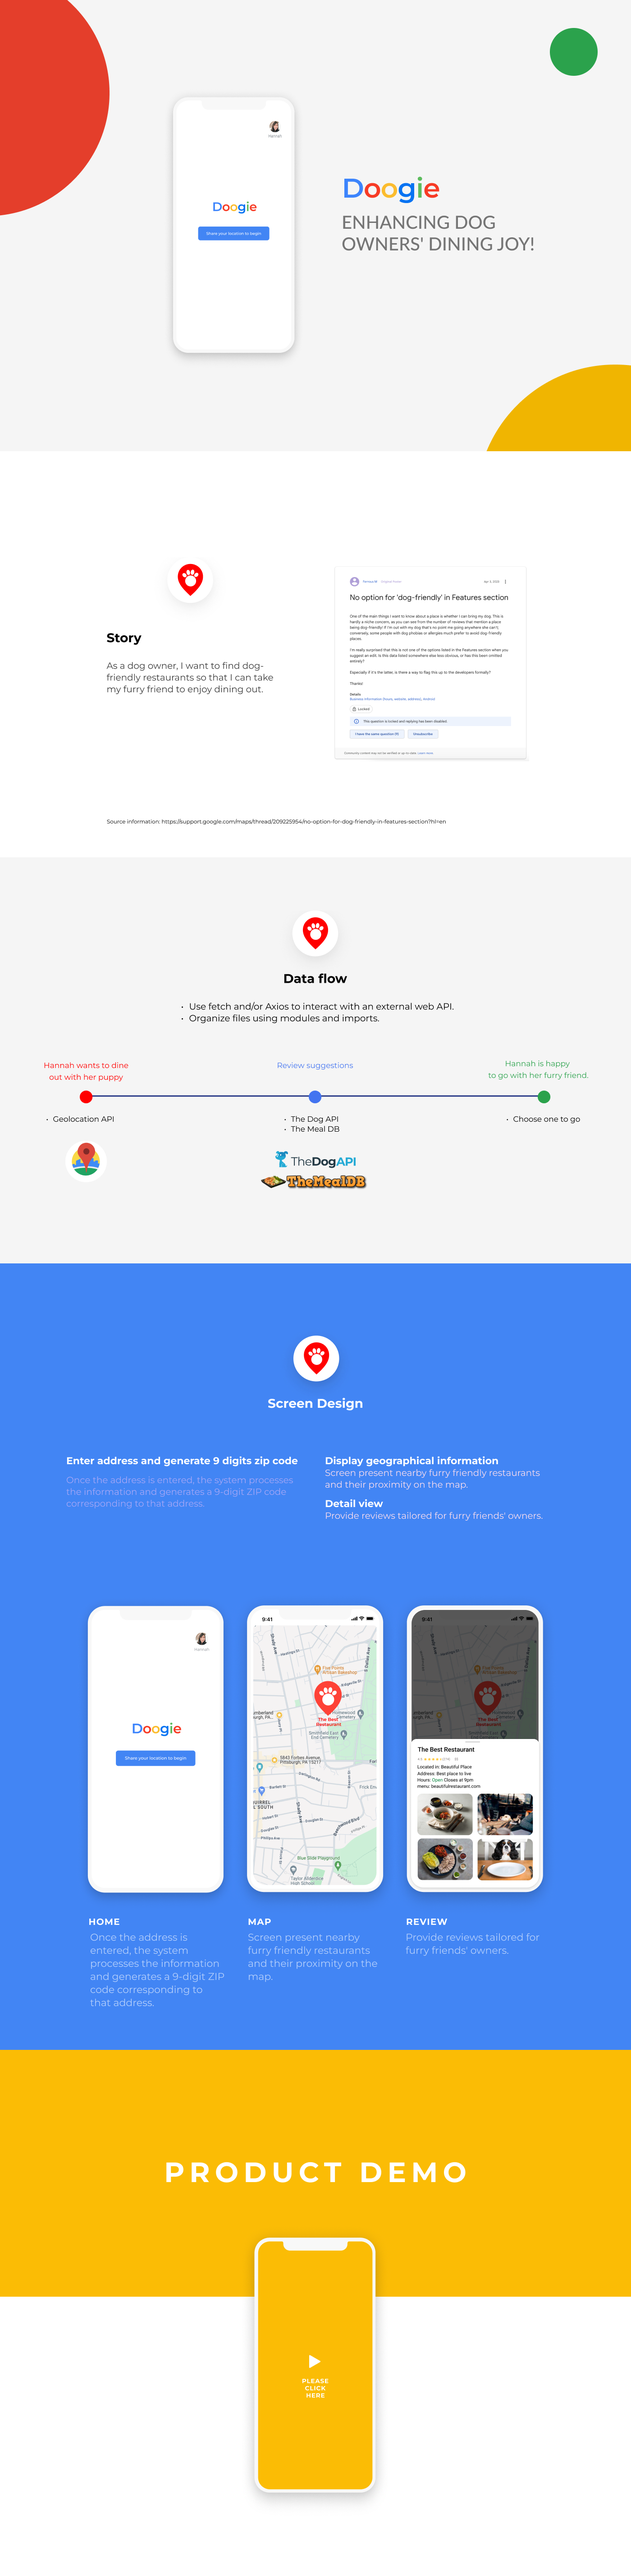
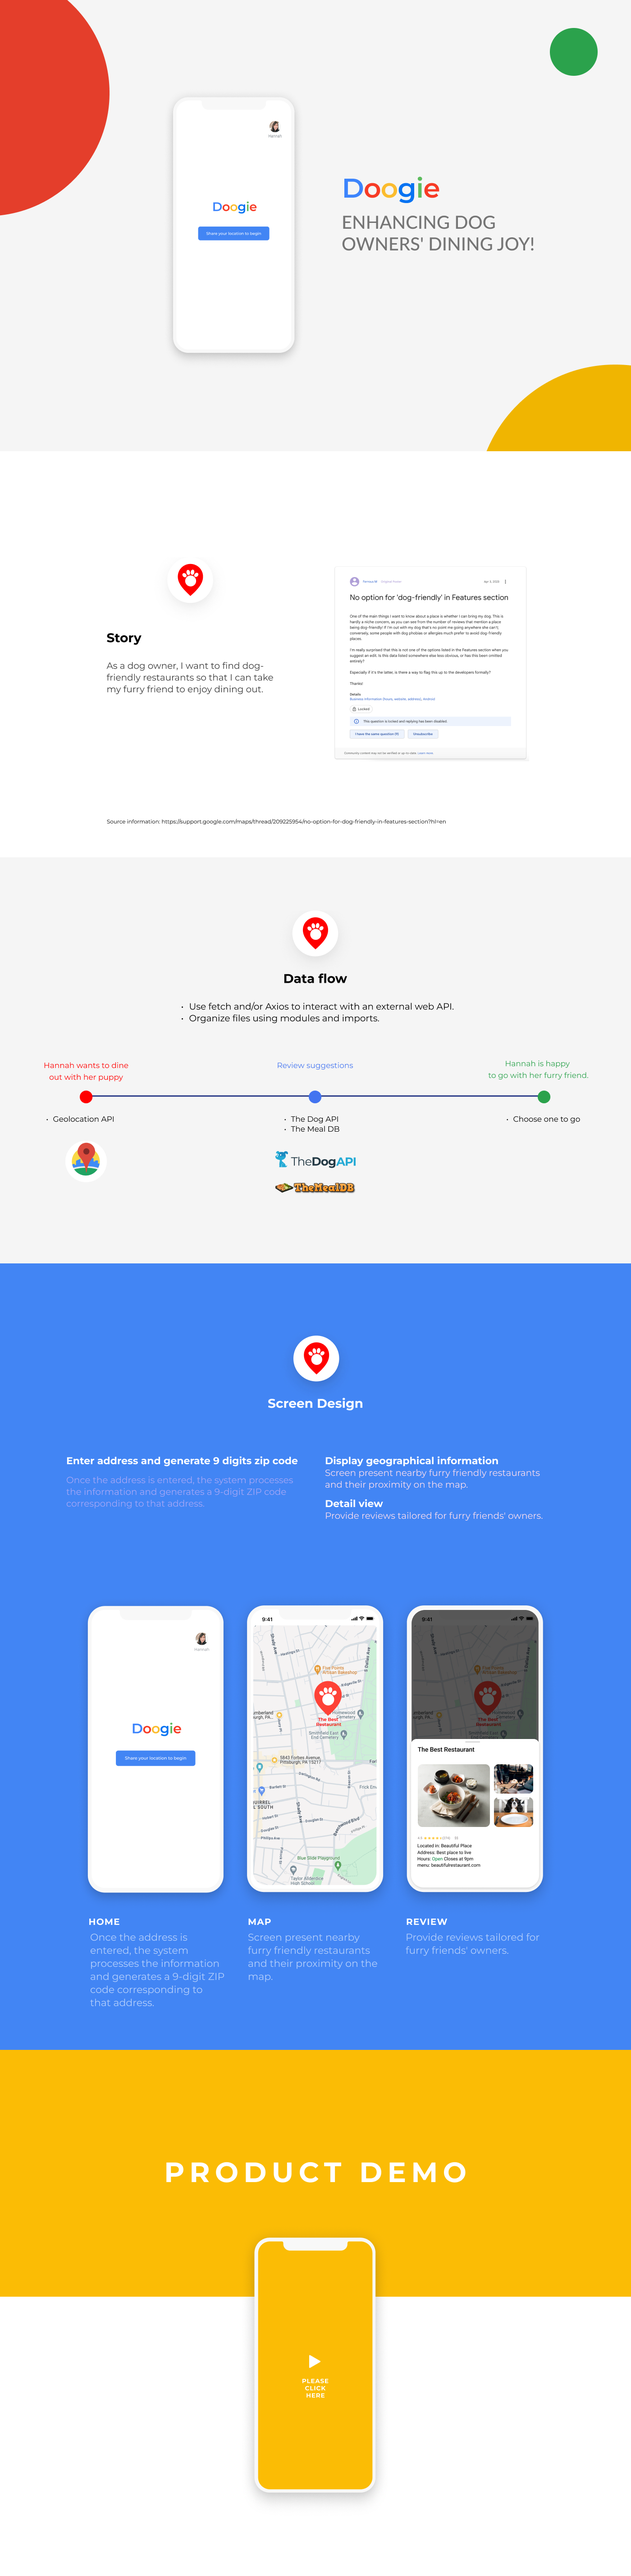
pushing working code

Changed region(s): [[0.645, 0.6859, 0.86, 0.7483], [0.43, 0.4365, 0.5836, 0.4677]]

diff --git a/googleMap.js b/googleMap.js
@@ -34,6 +34,15 @@ export async function initMap() {
     });
   });
 
+  // As of February 21st, 2024, google.maps.Marker is deprecated. Please use google.maps.marker.AdvancedMarkerElement instead. At this time, google.maps.Marker is not scheduled to be discontinued, but google.maps.marker.AdvancedMarkerElement is recommended over google.maps.Marker. While google.maps.Marker will continue to receive bug fixes for any major regressions, existing bugs in google.maps.Marker will not be addressed. At least 12 months notice will be given before support is discontinued. Please see https://developers.google.com/maps/deprecations for additional details and https://developers.google.com/maps/documentation/javascript/advanced-markers/migration for the migration guide."));
+
+  // restaurants.forEach(({ label, name, lat, lng }) => {
+  //   const marker = new google.maps.marker.AdvancedMarkerElement({
+  //     position: { lat, lng },
+  //     label,
+  //     map,
+  //   });
+  // });
 
   ////////////////// Try more land marks //////////////  
 
@@ -57,71 +66,3 @@ export async function initMap() {
 }
 
 initMap();
-
-
-
-// --------------- { TRY WITH NEW WITH MANY MARKS}
-
-// The following example creates a marker in Stockholm, Sweden using a DROP
-// animation. Clicking on the marker will toggle the animation between a BOUNCE
-// animation and no animation.
-// let marker;
-
-// let map;
-
-// function initMap() {
-//   const map = new google.maps.Map(document.getElementById("map"), {
-//     zoom: 13,
-//     center: { lat: 59.325, lng: 18.07 },
-//   });
-
-//   marker = new google.maps.Marker({
-//     map,
-//     draggable: true,
-//     animation: google.maps.Animation.DROP,
-//     position: { lat: 59.327, lng: 18.067 },
-//   });
-//   marker.addListener("click", toggleBounce);
-// }
-
-// function toggleBounce() {
-//   if (marker.getAnimation() !== null) {
-//     marker.setAnimation(null);
-//   } else {
-//     marker.setAnimation(google.maps.Animation.BOUNCE);
-//   }
-// }
-
-// window.initMap = initMap;
-
-// --------------- { TRY WITH Dale Seo's way}
-
-// window.initMap = function () {
-//   const map = new google.maps.Map(document.getElementById("map"), {
-//     center: { lat: 37.5400456, lng: 126.9921017 },
-//     zoom: 10,
-//   });
-
-//   const malls = [
-//     { label: "C", name: "코엑스몰", lat: 37.5115557, lng: 127.0595261 },
-//     { label: "G", name: "고투몰", lat: 37.5062379, lng: 127.0050378 },
-//     { label: "D", name: "동대문시장", lat: 37.566596, lng: 127.007702 },
-//     { label: "I", name: "IFC몰", lat: 37.5251644, lng: 126.9255491 },
-//     { label: "L", name: "롯데월드타워몰", lat: 37.5125585, lng: 127.1025353 },
-//     { label: "M", name: "명동지하상가", lat: 37.563692, lng: 126.9822107 },
-//     { label: "T", name: "타임스퀘어", lat: 37.5173108, lng: 126.9033793 },
-//   ];
-
-//   const bounds = new google.maps.LatLngBounds();
-
-//   malls.forEach(({ label, name, lat, lng }) => {
-//     const marker = new google.maps.Marker({
-//       position: { lat, lng },
-//       label,
-//       map,
-//     });
-//     bounds.extend(marker.position);
-//   });
-
-//   map.fitBounds(bounds);
-// };

diff --git a/index.js b/index.js
@@ -25,15 +25,9 @@
 const seeMoreBtn = document.getElementById('seeMoreBtn');
 
 // Add event listener to the button
-seeMoreBtn.addEventListener('click', async function() {
-    try {
+seeMoreBtn.addEventListener('click', function() {
     callDoggie();
     changeFood();
-    // await retrieveDishNames();
-
-} catch (error) {
-    alert("Oops! Something went wrong! It is on us! Please try again later.");
-}
 });
 
 async function callDoggie() {
@@ -70,49 +64,4 @@ async function changeFood() {
 
 
 // --------------- { Name of dishes } -------------- // 
-async function retrieveDishNames() {
-    const titleElement = document.querySelector(".nameOfDishes");
-    const input = /* Assuming you have input field */;
-    const val = input.value.trim();
-
-    if (!val) {
-        alert("Please enter a valid search term!");
-        return;
-    }
-
-    try {
-        const meals = await fetchMealData(val);
-
-        if (!meals) {
-            showAlert();
-            return;
-        }
-
-        // Clear previous results
-        titleElement.innerHTML = '';
-
-        // Show meal names
-        meals.forEach(meal => {
-            const { strMeal } = meal;
-            const mealTitle = document.createElement('p');
-            mealTitle.textContent = strMeal;
-            titleElement.appendChild(mealTitle);
-        });
-    } catch (error) {
-        alert("Oops! Something went wrong while retrieving dish names!");
-    }
-}
-
-async function fetchMealData(val) {
-    const res = await fetch(
-        `https://www.themealdb.com/api/json/v1/1/search.php?s=${val}`
-    );
-
-    const { meals } = await res.json();
-    return meals;
-}
-
-function showAlert() {
-    alert("Meal not found :(");
-}
 

diff --git a/index.html b/index.html
@@ -36,7 +36,7 @@
         <div class="modal-dialog" role="document">
         <div class="modal-content">
             <div class="modal-header">
-                <h4 class="modal-title" id="restaurantModal">The Best Dog Friendly Restaurant</h4>
+                <h5 class="modal-title" id="restaurantModal">The Best Dog Friendly Restaurant</h5>
                 <!-- <button type="button" class="close" data-dismiss="modal" aria-label="Close">
                     <span aria-hidden="true">&times;</span>
                 </button> -->
@@ -54,11 +54,11 @@
 
                 <!-- Fake business information --> 
                 <div class="modal-body">
-                    <h5 class="nameOfDishes">Name of Dish</h5>
+                    
                     <br><p> <b>Located in:</b> Beautiful Place<br>
                     <b>Address:</b> Best place to live<br>
                     <b>Hours:</b> <span style="color: green;">Open</span> Closes at 9pm<br>
-                    <b>Menu:</b><link rel="theporch" herf="https://www.dineattheporch.com/schenley/menu"> thebestdogfriendlyrestaurant.com</p>
+                    <b>Menu:</b><link rel="theporch" herf="https://www.dineattheporch.com/schenley/menu"> thebestrestaurant.com</p>
                 </div>
 
             </div>
@@ -90,6 +90,8 @@
 
   <script type="module" defer src="index.js"></script>
   <script type="module" defer src="googleMap.js"></script>
+  <!-- <script type="module" defer src="tryMap.js"></script> -->
+  
   <script type="module" defer src="openModal.js"></script>
 
   <!-- Google Bootstrap loader: Library does not get loaded until it is called -->

diff --git a/tryMap.js b/tryMap.js
@@ -1,0 +1,49 @@
+// If you're adding a number of markers, you may want to drop them on the map
+// consecutively rather than all at once. This example shows how to use
+// window.setTimeout() to space your markers' animation.
+const neighborhoods = [
+    { lat: 52.511, lng: 13.447 },
+    { lat: 52.549, lng: 13.422 },
+    { lat: 52.497, lng: 13.396 },
+    { lat: 52.517, lng: 13.394 },
+  ];
+  let markers = [];
+  let map;
+  
+  function initMap() {
+    map = new google.maps.Map(document.getElementById("map"), {
+      zoom: 12,
+      center: { lat: 52.52, lng: 13.41 },
+    });
+    document.getElementById("drop").addEventListener("click", drop);
+  }
+  
+  function drop() {
+    clearMarkers();
+  
+    for (let i = 0; i < neighborhoods.length; i++) {
+      addMarkerWithTimeout(neighborhoods[i], i * 200);
+    }
+  }
+  
+  function addMarkerWithTimeout(position, timeout) {
+    window.setTimeout(() => {
+      markers.push(
+        new google.maps.Marker({
+          position: position,
+          map,
+          animation: google.maps.Animation.DROP,
+        }),
+      );
+    }, timeout);
+  }
+  
+  function clearMarkers() {
+    for (let i = 0; i < markers.length; i++) {
+      markers[i].setMap(null);
+    }
+  
+    markers = [];
+  }
+  
+  window.initMap = initMap;
